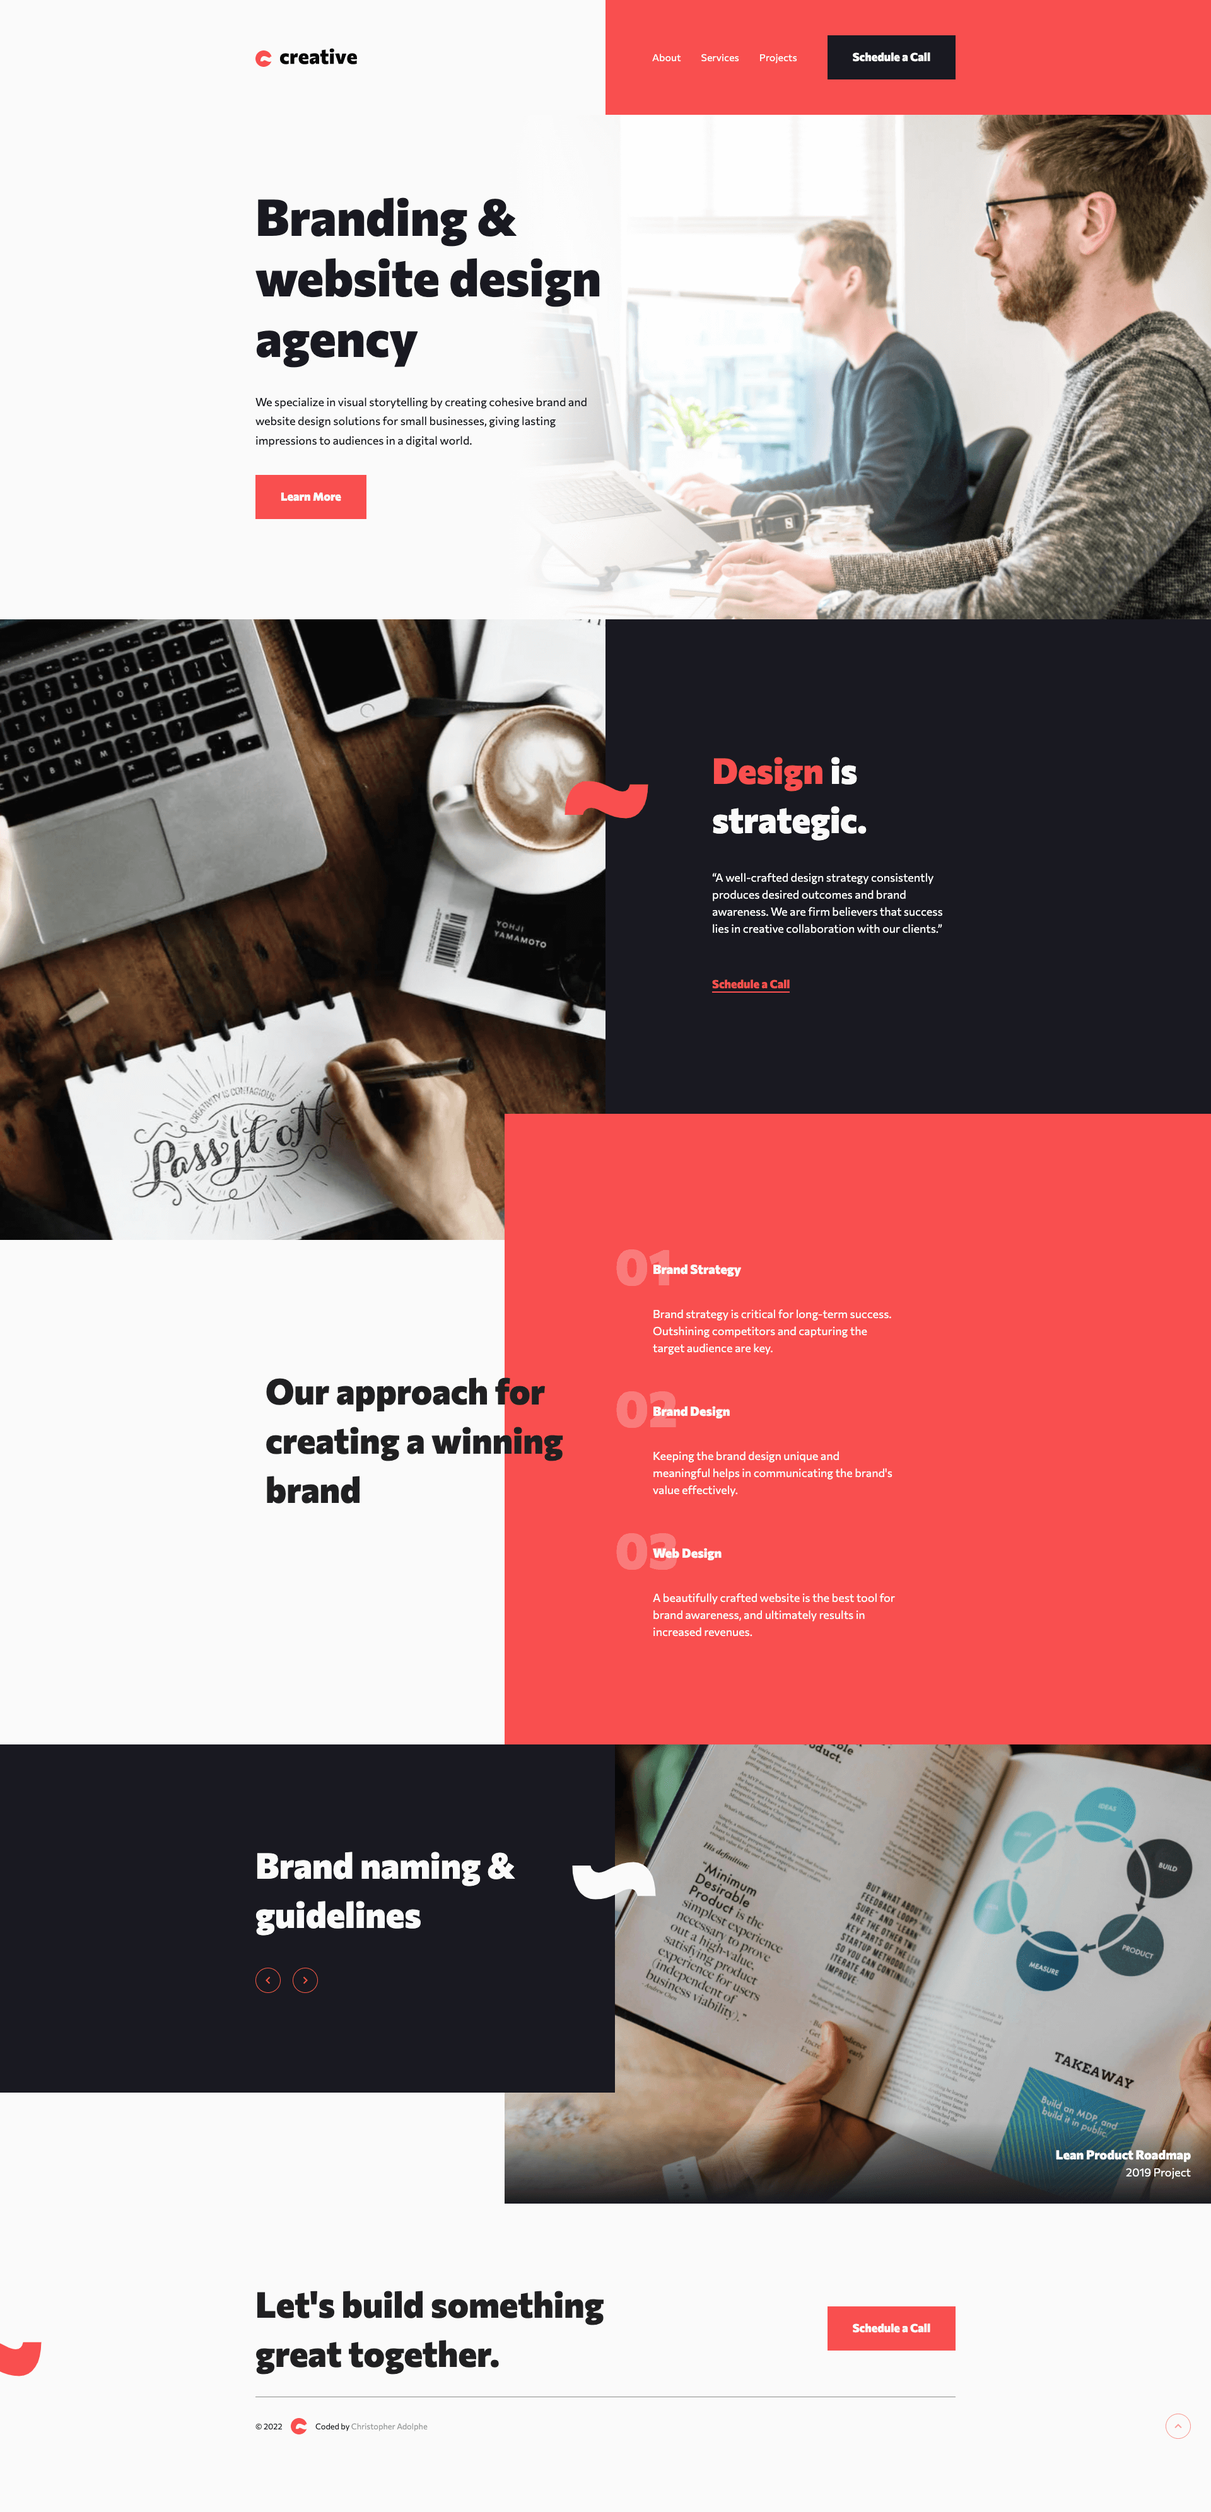
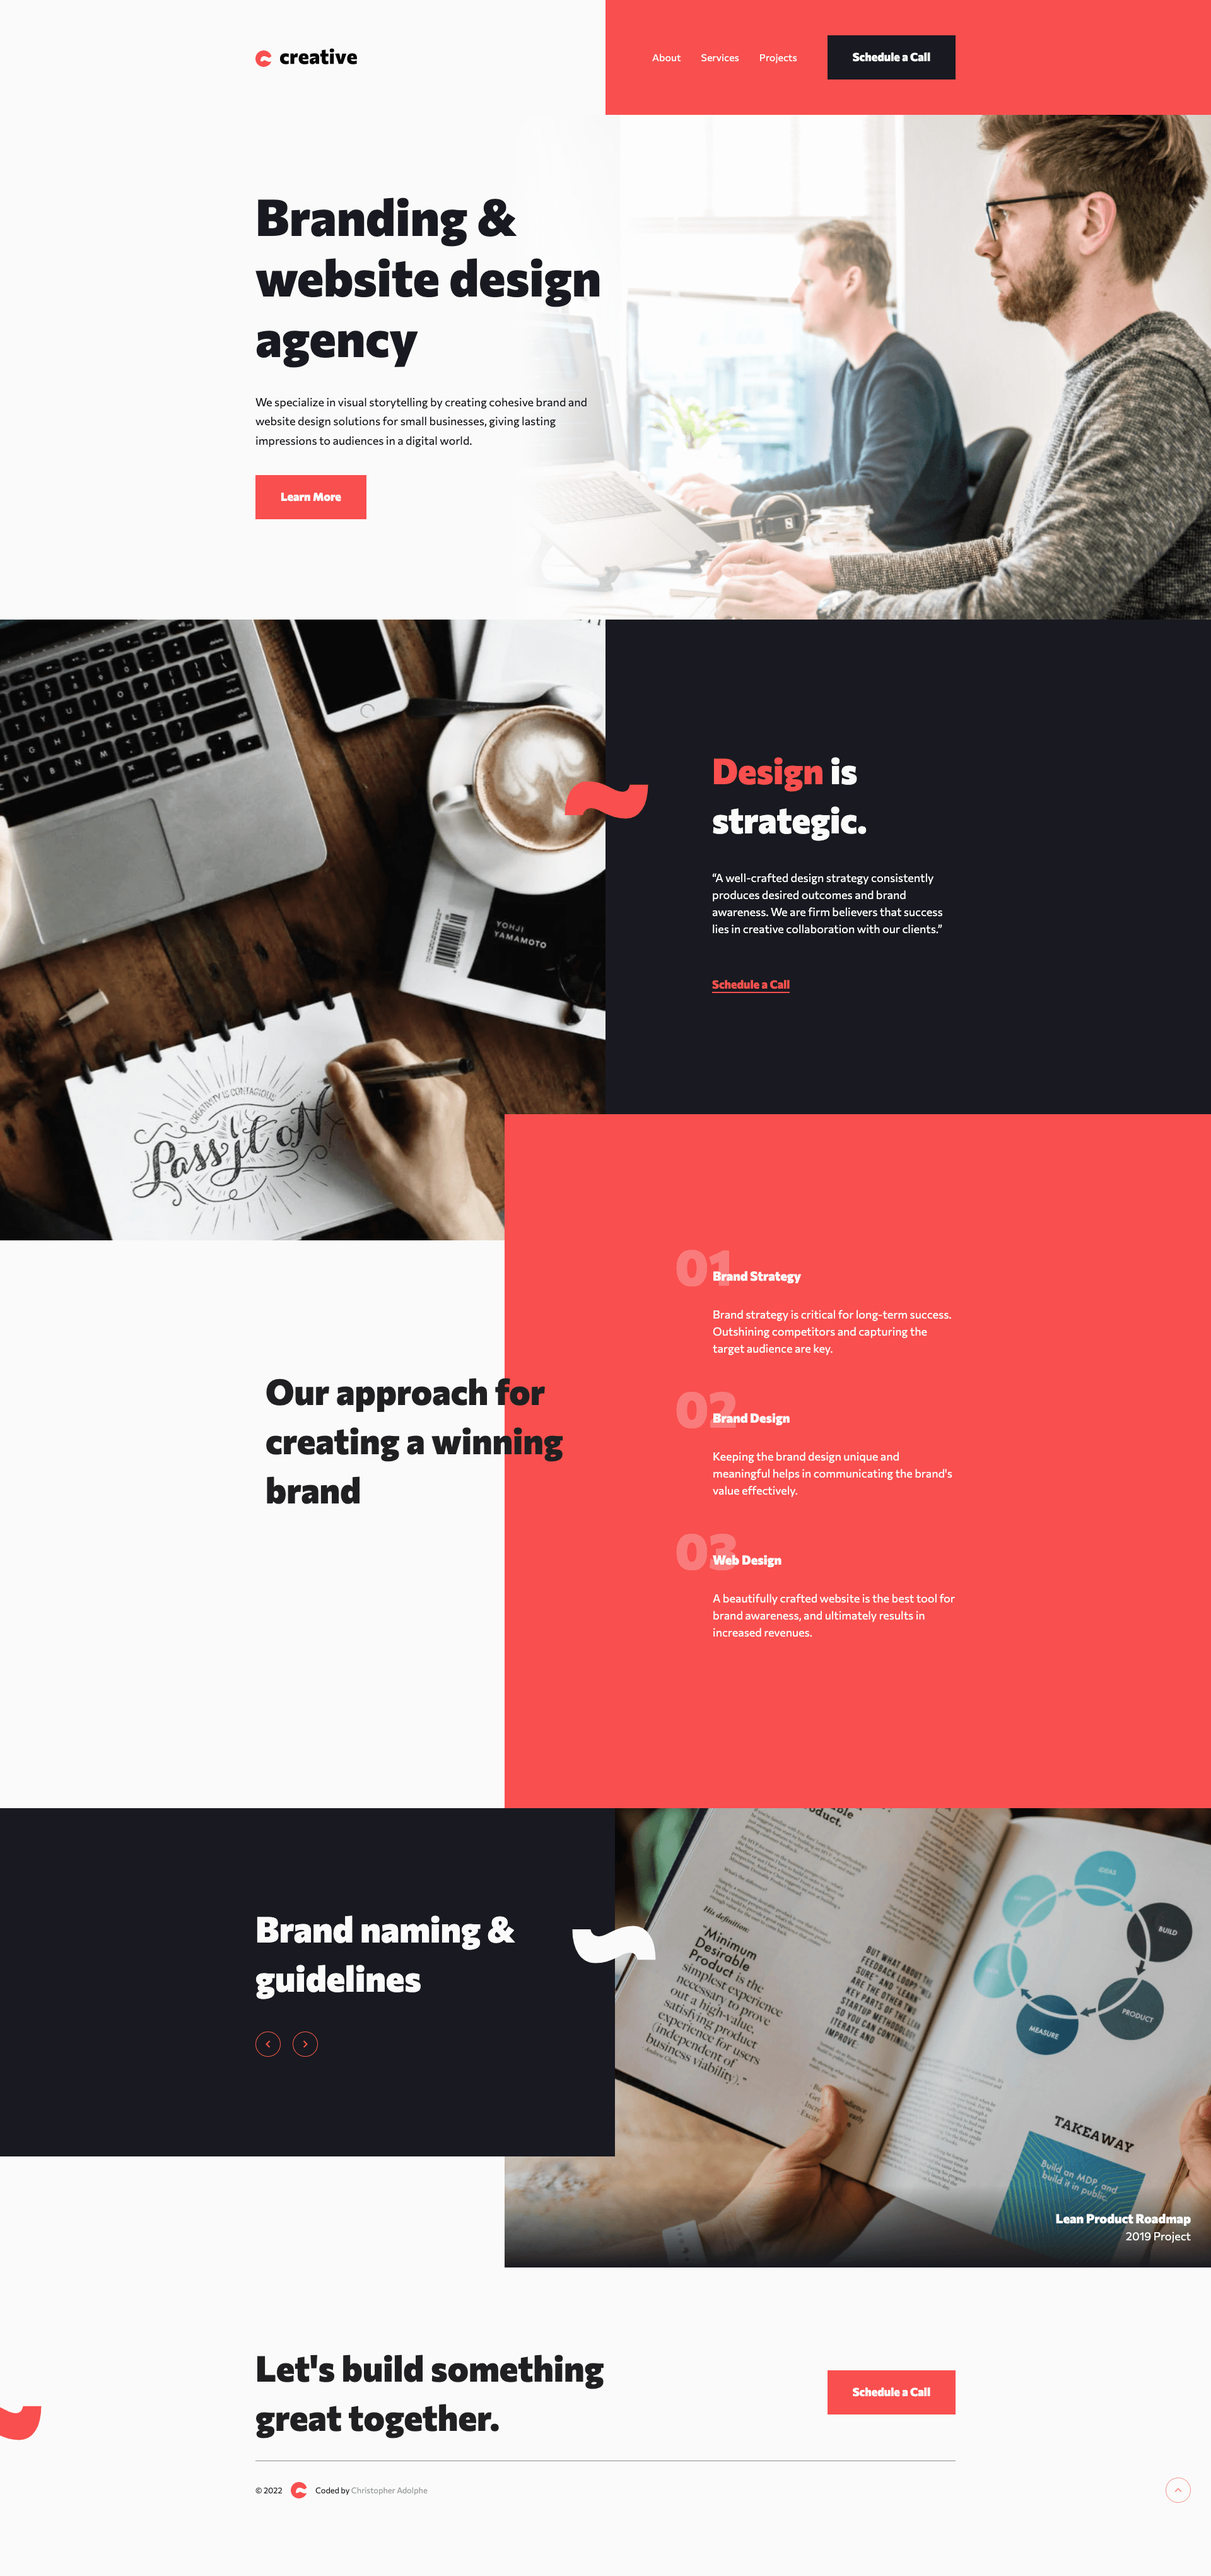
Fixed services section spacing and updated project screenshot

diff --git a/src/assets/scss/blocks/_section.scss b/src/assets/scss/blocks/_section.scss
@@ -4,7 +4,7 @@
   --vertical-space-top: #{calc(map-get($size-scale, s0) * 4.75)};
   --horizontal-space-left: 0;
   --img-min-height: #{toRem(200px)};
-  --img-max-height: #{toRem(800px)};
+  --img-max-height: #{toRem(900px)};
   --img-target-height: #{toRem(200px)};
   --content-vertical-space-top: #{calc(map-get($size-scale, s0) * 3.5)};
   --content-vertical-space-bottom: #{calc(map-get($size-scale, s0) * 6)};
